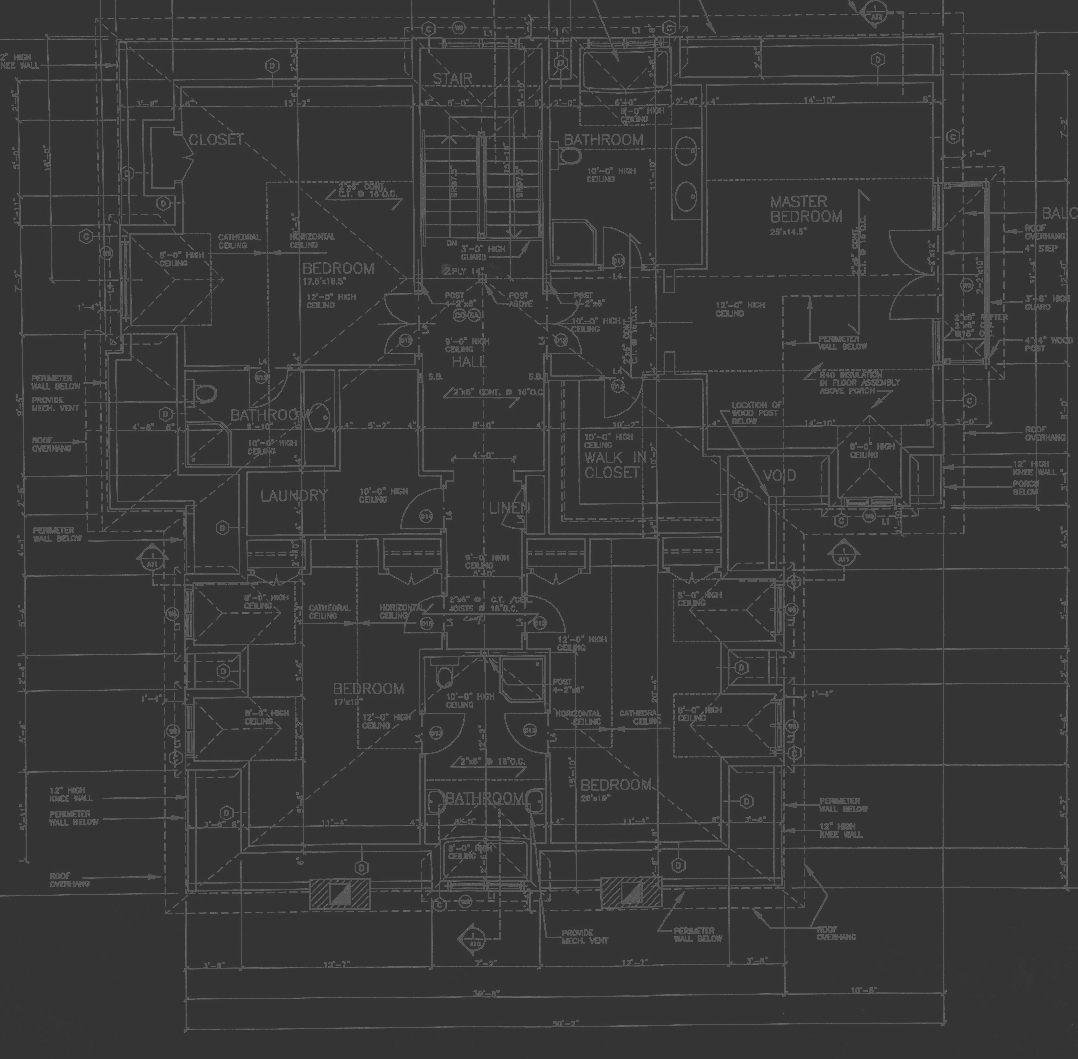
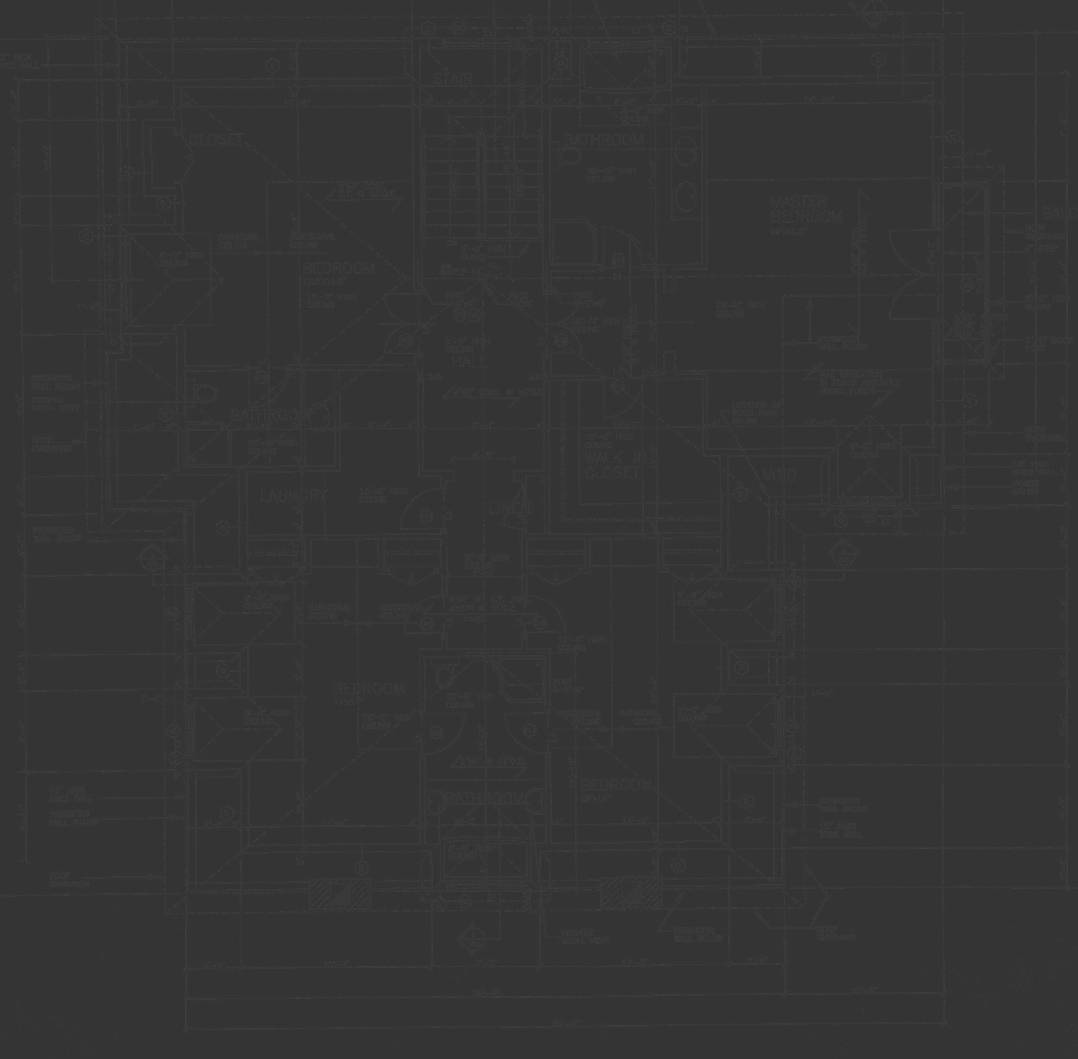
added pictures to all pages, and preparing to restructure landin page

diff --git a/css/application.css b/css/application.css
@@ -11,36 +11,35 @@ body {
 }
 
 #header {
-  max-width: 65em;
+  padding-top: 10px;
+  max-width: 72em;
   margin-right: auto;
   margin-left: auto;
   position: relative;
 }
 
-#header_background {
+#bp_logo {
+  width: 311px;
+  height: 81px;
+  margin-top: 6px;
+  margin-bottom: 6px;
+}
+
+/*#header_background {
   width: 100%;
   background: url(../images/header_fade.png);
   background-size: 100% 100%;
   background-repeat: repeat-y;
-}
-
-.construction {
-  margin-top: 15%;
-}
-
-#bp_logo {
-  width: 311px;
-  height: 81px;
-  margin-top: 5px;
-  margin-bottom: 5px;
-}
+}*/
 
 .text_field {
+  text-shadow: 1px 1px #000000;
+  border-radius: 1px;
   position: relative;
-  top: -7em;
-  right: -16em;
+  top: -11em;
+  left: 29em;
   padding: 7px;
-  background: #2E72A6;
+  background: rgba(31, 107, 165, 0.92);
   width: 30em;
   height: 3em;
 }
@@ -60,33 +59,104 @@ body {
   background: url(../images/stripe.png);
   background-size: 100% 100%;
   background-repeat: repeat-y;
-  margin-bottom: 15px;
+  margin-bottom: 2em;
 }
 
 #makisu {
-  width: 724px;
-  height: 468px;
+  border-radius: 1px;
+  width: 1002px;
   margin-left: auto;
   margin-right: auto;
 }
 
+#worker_img{
+  background: url(../images/construction_worker.jpg);
+  padding-top: 8em;
+  width: 100%;
+  height: 550px;
+  background-size: 100%;
+  background-repeat: no-repeat;
+}
+
+#kitchen{
+  background: url(../images/wood_kitchen.jpg);
+  padding-top: 8em;
+  width: 100%;
+  height: 665px;
+  background-size: 100%;
+  background-repeat: no-repeat;
+}
+
+#blueprints{
+  background: url(../images/blueprints.jpg);
+  padding-top: 8em;
+  width: 100%;
+  height: 615px;
+  background-size: 100%;
+  background-repeat: no-repeat;
+}
+
+#framework{
+  background: url(../images/pic_1.jpg);
+  padding-top: 4em;
+  width: 100%;
+  height: 750px;
+  background-size: 100%;
+  background-repeat: no-repeat;
+}
+
 .front_content {
-  width: 724px;
-  height: 468px;
-  background: rgba(37, 37, 37, 0.85);
-  padding: 50px;
+  border-radius: 2px;
+  height: 532px;
+  padding: 43px;
   margin-left: auto;
   margin-right: auto;
 }
 
 .content {
-  background: rgba(37, 37, 37, 0.85);
+
+  background: rgba(31, 107, 165, 0.92);
+  text-shadow: 0px 0px 1px #000000;
+  width: 550px;
   margin-left: auto;
   margin-right: auto;
   padding: 3px 25px 3px 25px;
-  margin-bottom: 20%;
-  margin-top: 10%;
-  width: 395px;
+  /*margin-bottom: 20%;*/
+  font-size: 17px;
+  margin-top: 30px;
+}
+
+.main {
+  border-radius: 1px;
+  padding: 48px;
+  width: 70em;
+  margin-left: auto;
+  margin-right: auto;
+  margin-bottom: 40px;
+  min-height: 425px;
+  background: rgba(37, 37, 37, 0.75);
+}
+
+.container {
+  /*padding-top: 8em;*/
+  width: 850px;
+  margin-left: auto;
+  margin-right: auto;
+}
+
+#footer {
+  position: relative;
+  font-size: 12px;
+  background: black;
+  width: 100%;
+  padding: 22px 0px 22px 0px;
+  bottom: 0;
+}
+
+.profile_pic {
+  float: right;
+  height: 100px;
+  margin-top: 17px;
 }
 
 .content a {
@@ -114,26 +184,8 @@ a {
   margin-left: 13px;
 }
 
-.container {
-  width: 60em;
-  margin-left: auto;
-  margin-right: auto;
-  min-height: 300px;
-}
-
 #active{
   color: #95D6FC;
-}
-
-#footer {
-  margin-top: 30px;
-  font-size: 12px;
-  background: black;
-  width: 100%;
-  padding: 22px 0px 22px 0px;
-  bottom: 0;
-  left: 0;
-  position: inherit;
 }
 
 #footer a {
@@ -141,5 +193,6 @@ a {
 }
 
 #wrapper {
-  min-height: 100vh;
+  min-height: 100%;
+  position: relative;
 }

diff --git a/about.html b/about.html
@@ -34,12 +34,19 @@
     <div id="stripe">
     </div>
 
-    <div class="container">
-      <div class="content">
-        <p>
-        <center>This page is under construction</center>
-        <center>Please check back soon!</center>
-        </p>
+    <div class="main">
+      <div class="container" id="framework">
+        <div class="content">
+          <img src="images/erik_kim.jpg" class="profile_pic">
+          <p>Erik Kim was a Greek warrior king of the Greek city-state of Sparta. He led the Spartan forces during the Second Persian War and is remembered for his death at the Battle of Thermopylae. Erik was the third son of Anaxandridas II of Sparta, and thus belonged to the Agiad dynasty, who claimed descent from the demigod Heracles. Because Erik was not heir to the throne, he was not exempt from attending the agoge, the public school education at which the sons of all Spartans had to complete in order to qualify for citizenship.[4] Erik was thus one of the few Spartan kings to have ever undergone the notoriously harsh training of Spartan youth</p>
+        </div>
+        <div class="content">
+          <img src="images/ken_kim.png" class="profile_pic">
+          <p>Victor von Doom was born in a gypsy camp outside Haasenstadt, Latveria. His mother, Cynthia, was killed in a bargain with Mephisto gone wrong. Despite his father's attempts to care for her, a noblewoman died and Werner von Doom fled with a young Victor on a cold winter's night. Victor survived the cold, and his father did not[4]. Doom sought to increase his knowledge of both science and magic in order to avenge the deaths of his parents[5], which he blamed on Mephisto. In his youth, Victor fell in love with a woman named Valeria, but she resisted his advances. In retaliation, Victor had her sacrificed as part of a bargain with the Hazareth Three, giving him more mystical power.</p>
+        </div>
+        <div class="content">
+          <p>Our name is in specializing custom builds; concentrating on the fabrication of custom built furnishings to match your visions of architectural design. Our competitive pricing alongside professional workmanship produces architectural and engineering precision. Efficiency is what make us differant from the rest. By providing exceptional plotting and planning services on time, you can rely on us to get your business off to a brilliant start.</p>
+        </div>
       </div>
     </div>
 

diff --git a/vision.html b/vision.html
@@ -22,8 +22,8 @@
         </div>
         </a>
           <div id="nav_links">
-            <a href="vision.html">Vision</a>
-            <a href="services.html" id="active">Services</a>
+            <a href="vision.html" id="active">Vision</a>
+            <a href="services.html">Services</a>
             <a href="gallery.html">Gallery</a>
             <a href="about.html">About</a>
             <a href="contact.html">Contact</a>
@@ -34,9 +34,11 @@
     <div id="stripe">
     </div>
 
-    <div class="container">
-      <div class="content">
-        <p>Our name is in specializing custom builds; concentrating on the fabrication of custom built furnishings to match your visions of architectural design. Our competitive pricing alongside professional workmanship produces architectural and engineering precision. Efficiency is what make us differant from the rest. By providing exceptional plotting and planning services on time, you can rely on us to get your business off to a brilliant start.</p>
+    <div class="main">
+      <div class="container" id="kitchen">
+        <div class="content">
+          <p>Our name is in specializing custom builds; concentrating on the fabrication of custom built furnishings to match your visions of architectural design. Our competitive pricing alongside professional workmanship produces architectural and engineering precision. Efficiency is what make us differant from the rest. By providing exceptional plotting and planning services on time, you can rely on us to get your business off to a brilliant start.</p>
+        </div>
       </div>
     </div>
 

diff --git a/services.html b/services.html
@@ -34,18 +34,20 @@
     <div id="stripe">
     </div>
 
-    <div class="container">
-      <div class="content">
-        <p>We offer a wide range of services, in addition to:</p>
-        <ul>
-          <li>New Development and Construction</li>
-          <li>New Built-out Construction</li>
-          <li>Additions and Extensions</li>
-          <li>Design and Build</li>
-          <li>Architectural and Interior Design</li>
-          <li>Engineering</li>
-          <li>Consulting</li>
-        </ul>
+    <div class="main">
+      <div class="container" id="worker_img">
+        <div class="content">
+          <p>We offer a wide range of services, in addition to:</p>
+          <ul>
+            <li>New Development and Construction</li>
+            <li>New Built-out Construction</li>
+            <li>Additions and Extensions</li>
+            <li>Design and Build</li>
+            <li>Architectural and Interior Design</li>
+            <li>Engineering</li>
+            <li>Consulting</li>
+          </ul>
+        </div>
       </div>
     </div>
 

diff --git a/contact.html b/contact.html
@@ -34,12 +34,14 @@
     <div id="stripe">
     </div>
 
-    <div class="container">
-      <div class="content">
-        <p>Feel free to contact use for any questions or concerns.</p>
-        <p>Email:  <a href="mailto:info@blueprint-company.com">info@blueprint-company.com</a></p>
-        <p>Office: (847)656-5282</p>
-        <p>Fax:    (847)656-5201</p>
+    <div class="main">
+      <div class="container" id="blueprints">
+        <div class="content">
+          <p><center>Feel free to contact use for any questions or concerns.</center></p>
+          <p><center>Email:  <a href="mailto:info@blueprint-company.com">info@blueprint-company.com</a></center></p>
+          <p><center>Office: (847)656-5282</center></p>
+          <p><center>Fax:    (847)656-5201</center></p>
+        </div>
       </div>
     </div>
 

diff --git a/careers.html b/careers.html
@@ -34,15 +34,17 @@
     <div id="stripe">
     </div>
 
-    <div class="container">
-      <div class="content">
-        <p>
-          <center>This page is under construction</center>
-        </p>
-        <p>
-          <center>Feel free to send your resume to:</center>
-          <center><a href="mailto:info@blueprint-company.com">info@blueprint-company.com</a></center>
-        </p>
+    <div class="main">
+      <div class="container">
+        <div class="content">
+          <p>
+            <center>This page is under construction</center>
+          </p>
+          <p>
+            <center>Feel free to send your resume to:</center>
+            <center><a href="mailto:info@blueprint-company.com">info@blueprint-company.com</a></center>
+          </p>
+        </div>
       </div>
     </div>
 

diff --git a/index.html b/index.html
@@ -34,11 +34,11 @@
     <div id="stripe">
     </div>
 
-    <div class="container">
+    <div class="main">
       <div class="front_content">
       <img src="images/makisu_sushi.jpg" id="makisu">
       <div>
-        <div class="text_field">Chicago's premier General Contractors, serving the Chicagoland area for more then 20 years. <a href="contact.html" id="quote_button">Request a Quote</a> </div>
+        <div class="text_field">Chicago's premier General Contractors, serving the Chicagoland area for more than 20 years. <a href="contact.html" id="quote_button">Request a Quote</a> </div>
       </div>
     </div>
     </div>

diff --git a/gallery.html b/gallery.html
@@ -34,12 +34,14 @@
     <div id="stripe">
     </div>
 
-    <div class="container">
-      <div class="content">
-        <p>
-        <center>This page is under construction</center>
-        <center>Please check back soon!</center>
-        </p>
+    <div class="main">
+      <div class="container">
+        <div class="content">
+          <p>
+          <center>This page is under construction</center>
+          <center>Please check back soon!</center>
+          </p>
+        </div>
       </div>
     </div>
 
